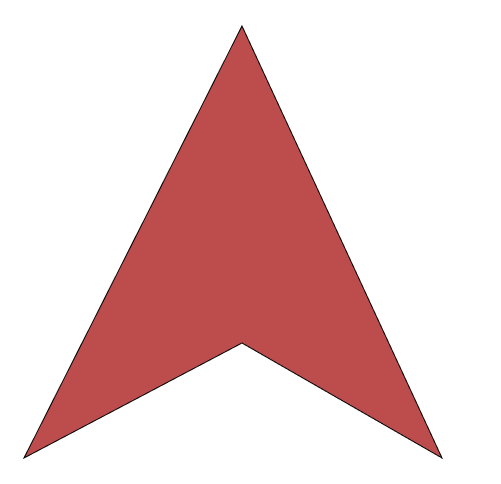
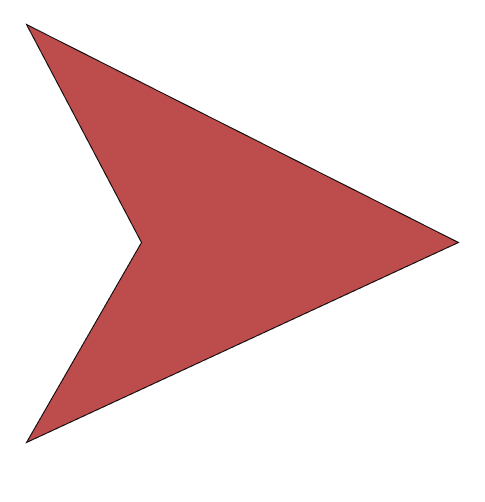
Got rotational movement functioning

Changed region(s): [[0.0309, 0.031, 0.9588, 0.9607], [0.1237, 0.6508, 0.1856, 0.7748]]

diff --git a/minimalist-game-framework-core/Game/Game.cs b/minimalist-game-framework-core/Game/Game.cs
@@ -33,7 +33,21 @@ class Game
 
         if(Engine.GetKeyDown(Key.Up,allowAutorepeat: true))
         {
-            mov = new Vector2(mov.X + 10, mov.Y + 10);
+            mov = new Vector2((float)(Convert.ToDouble(mov.X) + 10*Math.Cos(ConvertDegreesToRadians(rot))), (float)(Convert.ToDouble(mov.Y) + 10 * Math.Sin(ConvertDegreesToRadians(rot))));
         }
+    }
+
+
+    public Vector2 getDirectionalVector(Vector2 cur, float rotation, float adv)
+    {
+
+
+        return Vector2.Zero;
+    }
+
+    public static double ConvertDegreesToRadians(double degrees)
+    {
+        double radians = (Math.PI / 180) * degrees;
+        return (radians);
     }
 }
